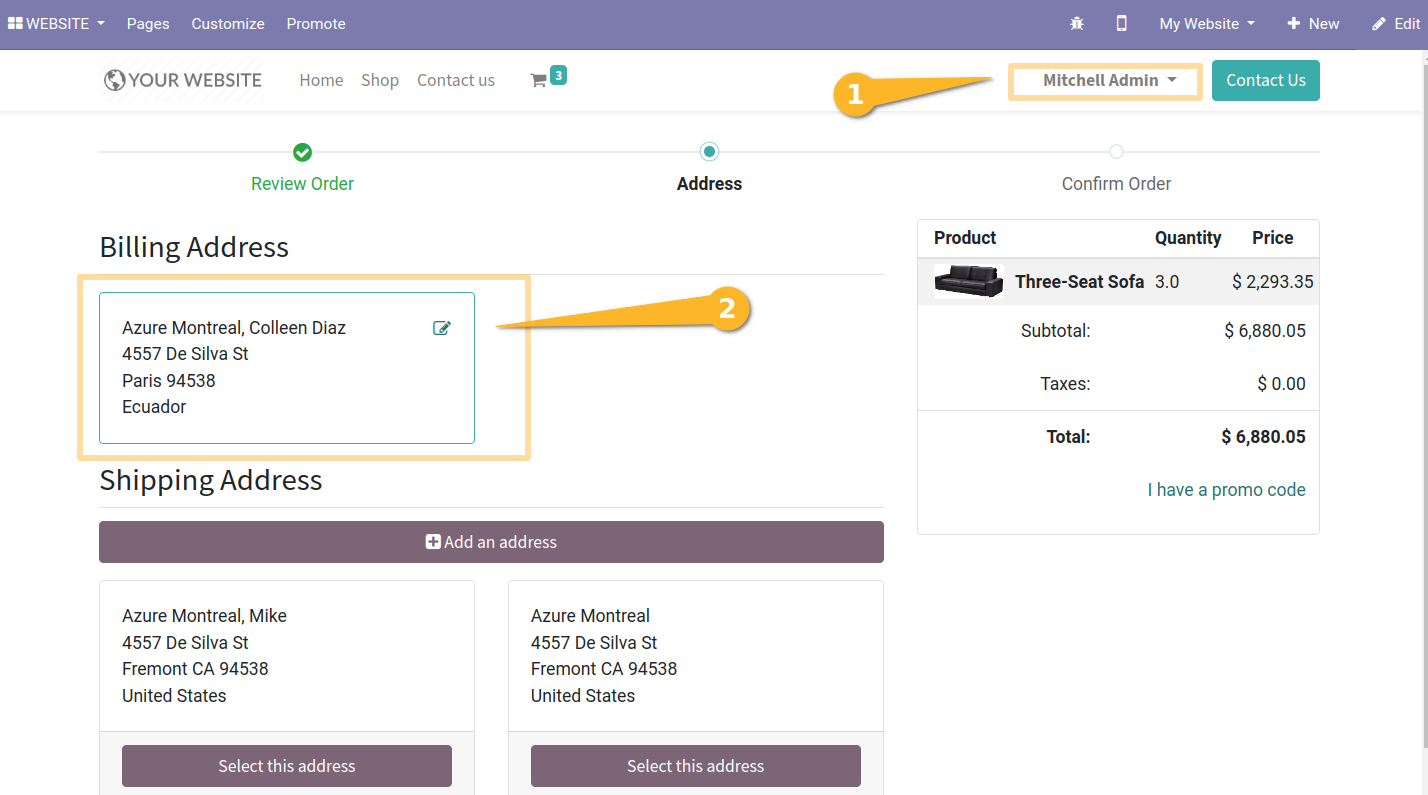
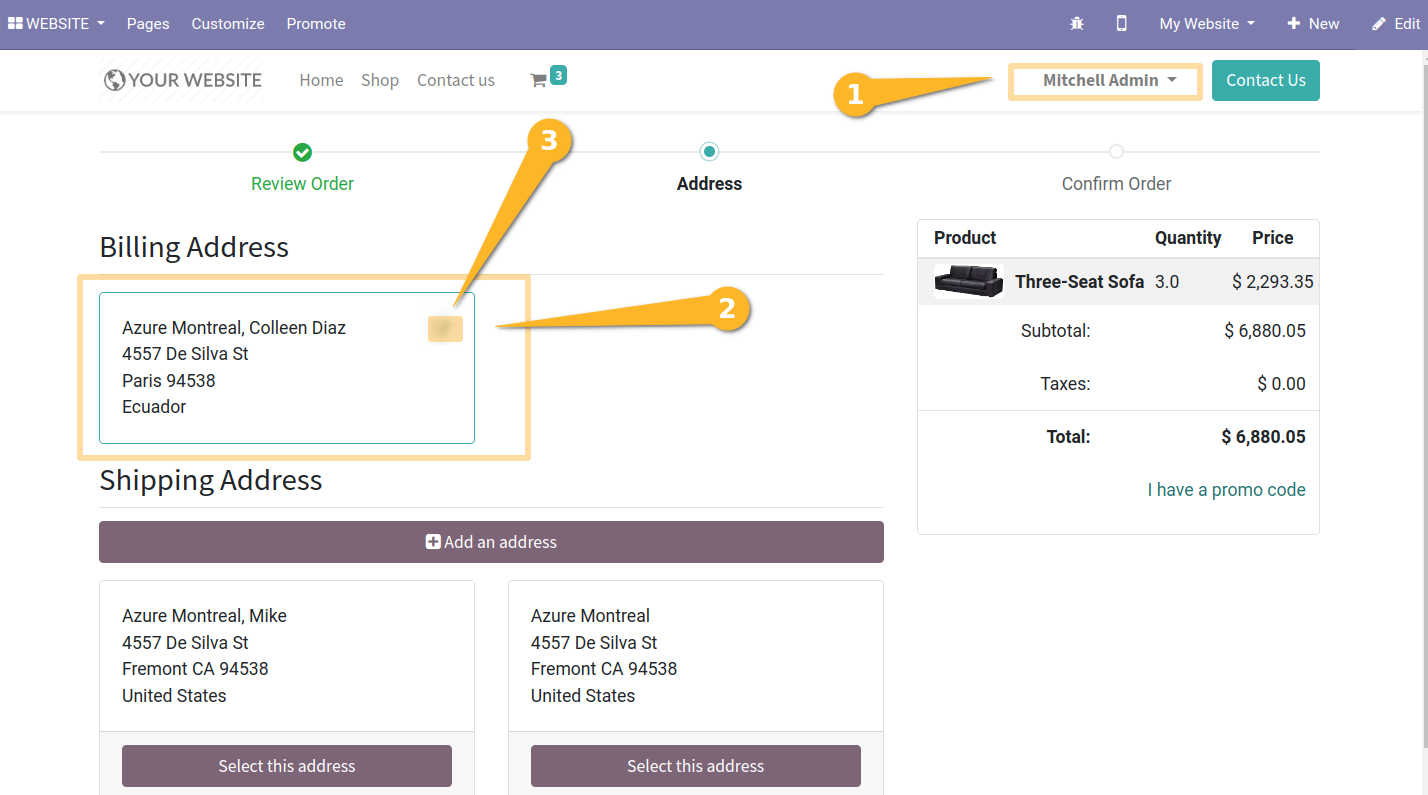
TA#54302 [ADD] website_sale_partner_affiliate_invoice_address : hide edit button with condition (#121)
* TA#54302 [ADD] website_sale_partner_affiliate_invoice_address : hide edit button

Changed region(s): [[0.2773, 0.1509, 0.4006, 0.4528]]

diff --git a/website_sale_partner_affiliate_invoice_address/__manifest__.py b/website_sale_partner_affiliate_invoice_address/__manifest__.py
@@ -3,7 +3,7 @@
 
 {
     "name": "Website Sale Partner Affiliate Invoice Address",
-    "version": "1.0.0",
+    "version": "1.0.1",
     "author": "Numigi",
     "maintainer": "Numigi",
     "license": "AGPL-3",
@@ -15,7 +15,7 @@
     ],
     "data": [
         "views/website_sale_payment_templates.xml",
-        "views/website_sale_checkout_templates.xml"
+        "views/website_sale_checkout_templates.xml",
     ],
     "installable": True,
 }

diff --git a/website_sale_partner_affiliate_invoice_address/README.rst b/website_sale_partner_affiliate_invoice_address/README.rst
@@ -10,8 +10,9 @@ The module, with the module `partner_affiliate_invoicing_address` as dependency,
 Usage
 -----
 As an `Azure Montreal` portal user or one of its children like `Mitchel Admin`, I go to the website and see that the billing address used is the billing address defined as the billing address to use.
+Also, I see that I can not edit the contact. The edit button is invisible.
 
-.. image:: static/description/user_contact_invoice_address.png.png
+.. image:: static/description/user_contact_invoice_address.png
 
 .. image:: static/description/billing_page_info.png
 
